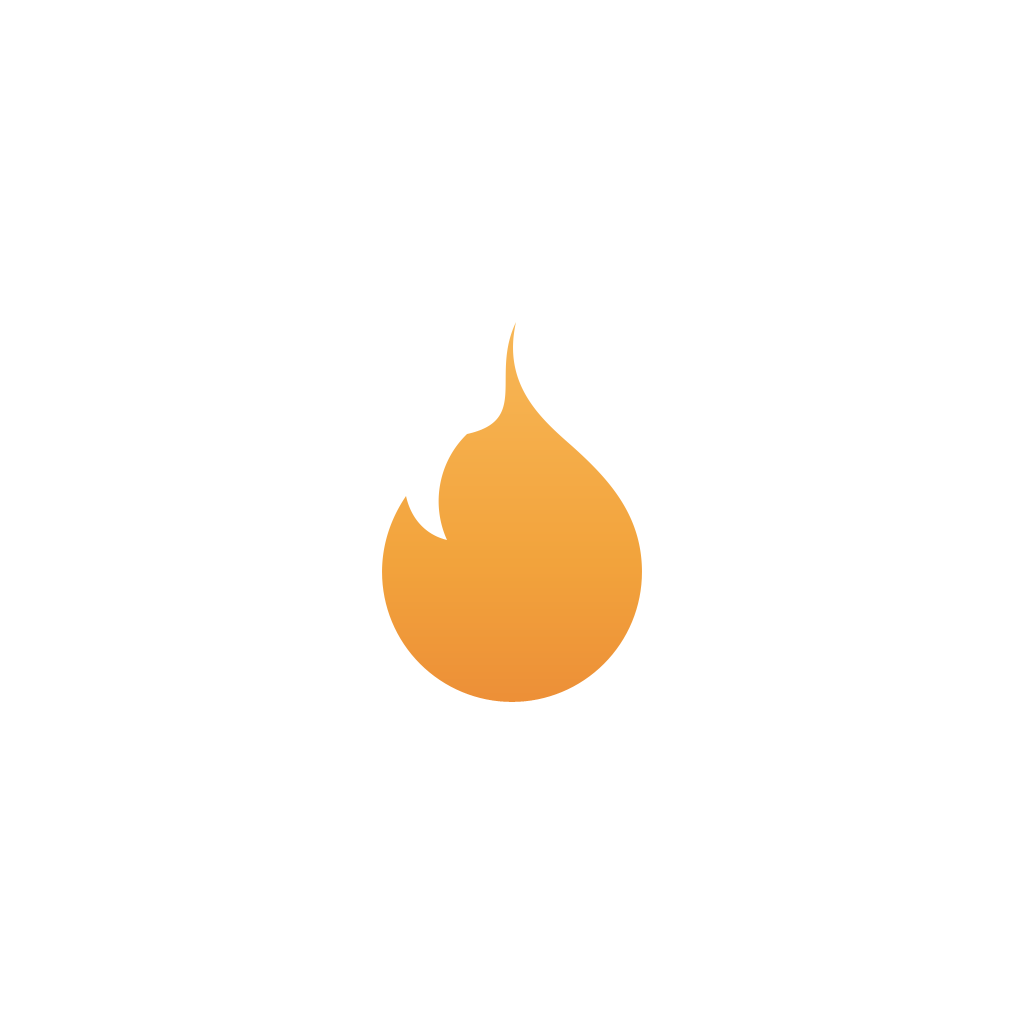
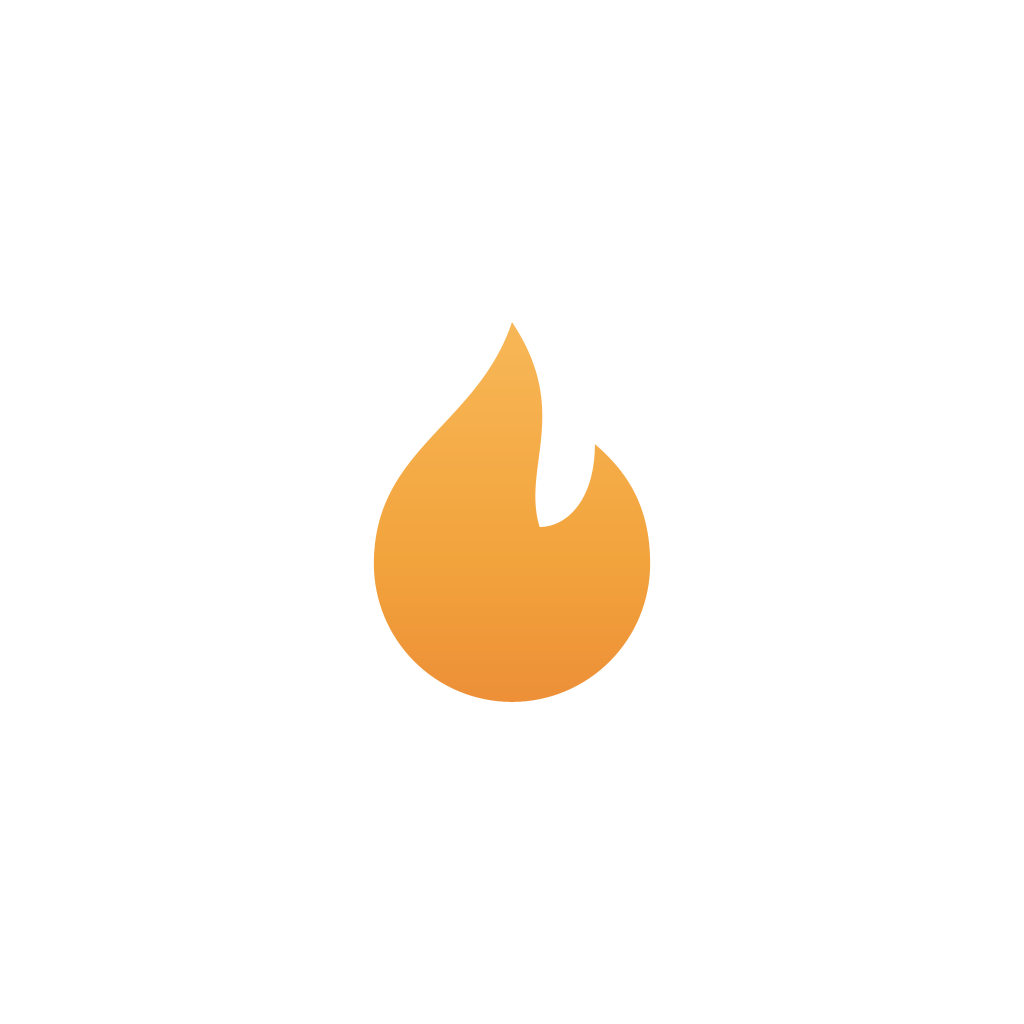
The flame mark becomes mock 115's Cindy flame
FLAME_PATH was still mock 92's rounded silhouette while every Cindy surface
had already moved to the sharper mock-115 flame, so the logo mark and the
assistant's flame were two different shapes. Swap the path and regenerate the
rasters that derive from it (icon, splash, favicon, notification, both Android
adaptive layers) plus the shirt mock's inline copy.

diff --git a/PHILOI_SHIRT.html b/PHILOI_SHIRT.html
@@ -19,7 +19,7 @@ body{margin:0;background:#eceae4;font-family:Inter,system-ui,sans-serif;color:#2
       <defs><linearGradient id="ember" x1="0" y1="1" x2="0" y2="0">
         <stop offset="0" stop-color="#E0612C"/><stop offset=".5" stop-color="#F2A33C"/><stop offset="1" stop-color="#FFD27A"/>
       </linearGradient></defs>
-      <g transform="translate(24,0) scale(-1,1)"><path d="M13.8 2c.7 3.1-1.2 4.8-2.8 6.2-1.9 1.7-3.5 3.5-3.5 6.3a6.5 6.5 0 0013 0c0-1.4-.45-2.7-1.2-3.8-.25 1.15-1 1.95-2.05 2.2.8-1.75.45-3.9-1-5.3C13.1 6.9 15.1 4.7 13.8 2z" fill="url(#ember)"/></g>
+      <g transform="translate(24,0) scale(-1,1)"><path d="M12 2c1.5 4.5 6 5.5 6 10.5a6 6 0 0 1-12 0c0-2.5 1-4 2.4-5.2 0 2.4 1.2 3.6 2.4 3.6.8-2.6-1.4-5 1.2-8.9z" fill="url(#ember)"/></g>
     </svg>
     <text x="0" y="118" text-anchor="middle" font-family="Inter,sans-serif" font-weight="800" font-size="40" letter-spacing="-1" fill="#FFF6EC">Philoi</text>
   </g></svg></div>

diff --git a/src/components/ui/flame-logo.tsx b/src/components/ui/flame-logo.tsx
@@ -15,9 +15,10 @@ import { Colors, Fonts } from '@/constants/theme';
 // palette but not a silhouette — the flame has the tongue-lick notch and an open base, the ember
 // token is a closed, rounded coal.
 
-/** Mock 92's `#flameMark`, viewBox 0 0 24 24. One path — no inner layers; this reads at 16px. */
+/** Mock 115's flame — the "Cindy flame": sharper and less rounded than the retired mock-92 mark.
+ *  viewBox 0 0 24 24. Rendered mirrored (FLAME_MIRROR_TRANSFORM) to match mock 115 exactly. */
 export const FLAME_PATH =
-  'M13.8 2c.7 3.1-1.2 4.8-2.8 6.2-1.9 1.7-3.5 3.5-3.5 6.3a6.5 6.5 0 0013 0c0-1.4-.45-2.7-1.2-3.8-.25 1.15-1 1.95-2.05 2.2.8-1.75.45-3.9-1-5.3C13.1 6.9 15.1 4.7 13.8 2z';
+  'M12 2c1.5 4.5 6 5.5 6 10.5a6 6 0 0 1-12 0c0-2.5 1-4 2.4-5.2 0 2.4 1.2 3.6 2.4 3.6.8-2.6-1.4-5 1.2-8.9z';
 
 /** The viewBox FLAME_PATH is authored in. Square, so this is both width and height. */
 export const FLAME_VIEWBOX = 24;
